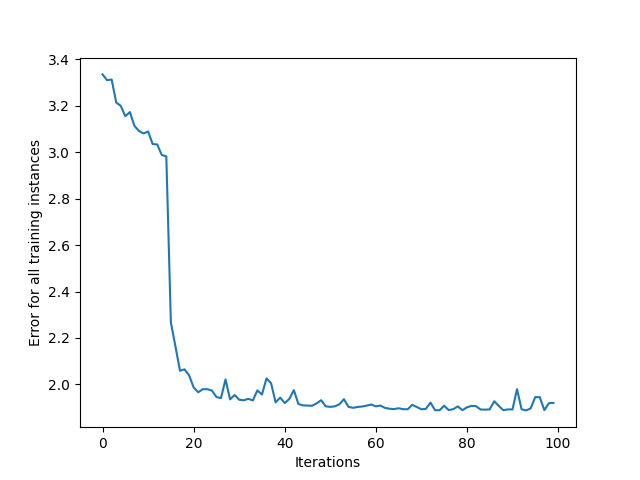
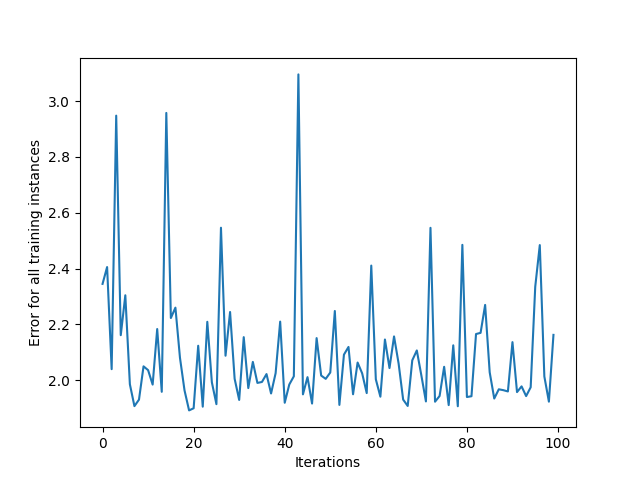
aa

diff --git a/ai4/nn1.py b/ai4/nn1.py
@@ -1,0 +1,98 @@
+import numpy as np
+
+# Definizione della classe NeuralNetwork
+class NeuralNetwork:
+    # Definizione del metodo init, che inizializza i pesi, il bias e il learning rate
+    def __init__(self, learning_rate):
+        # Inizializzazione dei pesi con valori casuali
+        self.weights = np.array([np.random.randn(), np.random.randn()])
+        # Inizializzazione del bias con valori casuali
+        self.bias = np.random.randn()
+        # Impostazione del learning rate
+        self.learning_rate = learning_rate
+    
+    # Definizione della funzione di attivazione sigmoid
+    def _sigmoid(self, x):
+        return 1 / (1 + np.exp(-x))
+
+    # Definizione della derivata della funzione di attivazione sigmoid
+    def _sigmoid_deriv(self, x):
+        return self._sigmoid(x) * (1 - self._sigmoid(x))
+
+    # Definizione del metodo predict, che restituisce la previsione della rete neurale
+    def predict(self, input_vector):
+        # Calcolo dell'output del primo layer
+        layer_1 = np.dot(input_vector, self.weights) + self.bias
+        # Applicazione della funzione di attivazione sigmoid all'output del primo layer
+        layer_2 = self._sigmoid(layer_1)
+        # La previsione è l'output del secondo layer
+        prediction = layer_2
+        return prediction
+
+    # Definizione del metodo per il calcolo dei gradienti
+    def _compute_gradients(self, input_vector, target):
+        # Calcolo dell'output del primo layer
+        layer_1 = np.dot(input_vector, self.weights) + self.bias
+        # Applicazione della funzione di attivazione sigmoid all'output del primo layer
+        layer_2 = self._sigmoid(layer_1)
+        # La previsione è l'output del secondo layer
+        prediction = layer_2
+        # Calcolo della derivata dell'errore rispetto alla previsione
+        derror_dprediction = 2 * (prediction - target)
+        # Calcolo della derivata dell'output del secondo layer rispetto all'output del primo layer
+        dprediction_dlayer1 = self._sigmoid_deriv(layer_1)
+        # Derivata del primo layer rispetto al bias
+        dlayer1_dbias = 1
+        # Derivata del primo layer rispetto ai pesi
+        dlayer1_dweights = (0 * self.weights) + (1 * input_vector)
+        # Calcolo della derivata dell'errore rispetto al bias
+        derror_dbias = (
+            derror_dprediction * dprediction_dlayer1 * dlayer1_dbias
+        )
+        # Calcolo della derivata dell'errore rispetto ai pesi
+        derror_dweights = (
+            derror_dprediction * dprediction_dlayer1 * dlayer1_dweights
+        )
+        # Restituzione delle derivate
+        return derror_dbias, derror_dweights
+
+    # Definizione del metodo per l'aggiornamento dei parametri
+    def _update_parameters(self, derror_dbias, derror_dweights):
+        # Aggiornamento del bias
+        self.bias = self.bias - (derror_dbias * self.learning_rate)
+        # Aggiornamento dei pesi
+        self.weights = self.weights - (
+            derror_dweights * self.learning_rate
+        )
+
+    def train(self, input_vectors, targets, iterations):
+        cumulative_errors = []
+        for current_iteration in range(iterations):
+            # seleziona casualmente un dato di input e il suo obiettivo corrispondente
+            # La linea seguente estrae casualmente un indice di input_vectors e targets
+            # su cui effettuare la successiva iterazione del training
+            random_data_index = np.random.randint(len(input_vectors))
+            input_vector = input_vectors[random_data_index]
+            target = targets[random_data_index]
+
+            # Calcola le derivate parziali dell'errore rispetto ai parametri del modello
+            derror_dbias, derror_dweights = self._compute_gradients(input_vector, target)
+
+            # Aggiorna i pesi e il bias utilizzando le derivate calcolate in precedenza
+            self._update_parameters(derror_dbias, derror_dweights)
+
+            # Ogni 100 iterazioni, calcola l'errore cumulativo su tutto il dataset di input_vectors
+            if current_iteration % 100 == 0:
+                cumulative_error = 0
+                for data_instance_index in range(len(input_vectors)):
+                    data_point = input_vectors[data_instance_index]
+                    target = targets[data_instance_index]
+                    prediction = self.predict(data_point)
+                    error = np.square(prediction - target)
+                    cumulative_error += error
+
+                cumulative_errors.append(cumulative_error)
+
+
+        return cumulative_errors
+

diff --git a/nn1/tool.py b/nn1/tool.py
@@ -1,0 +1,72 @@
+import os
+
+def cls():
+    os.system("cls")
+
+def controllo_int(s):
+    while True:
+        try:
+            n = int(input(s))
+            break
+        except:
+            print("Error")
+    return n
+
+def controllo_float(s):
+    while True:
+        try:
+            f = float(input(s))
+            break
+        except:
+            print("Error")
+    return f
+
+def controllo_string(s):
+    stringa = input(s)
+    while True:
+        if stringa == (""or" "):
+            print("input invalido")
+        else:
+            return stringa
+
+#                                                            esempio utilizzo di controllo stringa
+# a = controllo_string("inserisci una parola")
+# print(a)
+
+def min_numero(num,minimo):
+    if num > minimo:
+        return num
+    else:
+        print("il numero e troppo piccolo")
+
+def max_numero(num,massimo):
+    if num < massimo:
+        return num
+    else:
+        print("il numero e troppo grande")
+
+def min_max_numero(num,minimo,massimo):
+    if num < minimo and num > massimo:
+        return num
+    else:
+        if num > massimo:
+            return f'il numero "{num}" e troppo grande'
+        else:
+            return f'il numero "{num}" e troppo piccolo'
+        
+
+# inizzializzo un array con tutte le voci del menu il primo e il nome del menu
+# uscita lo mette in automatico 
+def menu(titolo,voci:list):
+    menu = "*"*42 +"\n"
+    menu += f"* {titolo}\n"
+    menu += "*"*42 +"\n"
+    for i in range(len(voci)):
+        menu += "* "+str(i+1) + ". " + f"{voci[i]}" + "\n"
+    menu += f"*\n* "+str(i+2) + f". uscita\n"
+    menu += "*"*42
+    return menu
+#                                                            esempio utilizzo del menu
+# voci = ["opzione 1","opzione 2","opzione 3","opzione 4"]
+# print(menu("titolo",["opzione 1","opzione 2","opzione 3","opzione 4"]))
+

diff --git a/ai3/AI3.py b/ai3/AI3.py
@@ -1,14 +1,13 @@
 import sys
 sys.path.append("nn1")
-import nn1
+import nn2
 import numpy as np
 import matplotlib.pyplot as plt
-#     non so cosa succede qui
-input_vector = np.array([2, 1.5])
-print(input_vector)
-learning_rate = 0.01
-neural_network = nn1.NeuralNetwork(learning_rate)
-neural_network.predict(input_vector)
+learning_rate = 0.1
+# input_vector = np.array([2, 1.5])
+# print(input_vector)
+# neural_network = nn2.NeuralNetwork(learning_rate)
+# neural_network.predict(input_vector)
 # [2.  1.5]
 
 # gli imput devono essere proporzionali ai target
@@ -25,7 +24,7 @@ print(input_vectors)
 #  [ 1.   1. ]
 #  [26.   1. ]]
 
-neural_network = nn1.NeuralNetwork(learning_rate)
+neural_network = nn2.NeuralNetwork(learning_rate)
 training_error = neural_network.train(input_vectors, targets, 10000)
 plt.plot(training_error)
 plt.xlabel("Iterations")

diff --git a/prova_text/ai_my.py b/prova_text/ai_my.py
@@ -41,18 +41,26 @@ a =neural_network.predict(input_vectors)
 for d in a:
     i+=1
     print("\n-------------------- ",i)
+    d *= 100
     while True:
         if d<65:
-            d *= 10
+            d *= 100
         else:
             d=int(d)
             if d>122:
-                print("null")
+                d-= 100
+                print(chr(d))
+                break
             elif d>=97:
                 print(chr(d))
+                break
             elif d>90 and d<96:
                 print("null")
+                break
+            elif d >= 65:
+                print(chr(d))
+                break
             print(d)
-            break
+            
 print("\n--------------------")
 training_error = neural_network.train(input_vectors, targets, 10000)

diff --git a/ai4/ai4.py b/ai4/ai4.py
@@ -1,0 +1,27 @@
+# input
+# semplifica l'input togliendo le cogniugazzioni
+# suddividere la domanda dalle specifiche 
+# cercare il topic (es. ricetta con le patate)
+#                 topic = ricetta
+#                 specifiche = patate
+# analizzare la frase con la self attention(percentuali di pertinenza alla domanda)
+# reitera il risultato in modo da perfezzionare la risposta
+# query
+# risposta
+import nn1
+learning_rate = 0.1
+neural_network = nn1.NeuralNetwork(learning_rate)
+
+
+
+testo = "testo prima prova"
+testo_diviso = testo.split(" ")
+print(testo_diviso)
+
+for i in testo_diviso:
+    if i == ("spiega",):
+        domanda = i
+
+
+nn1.
+
